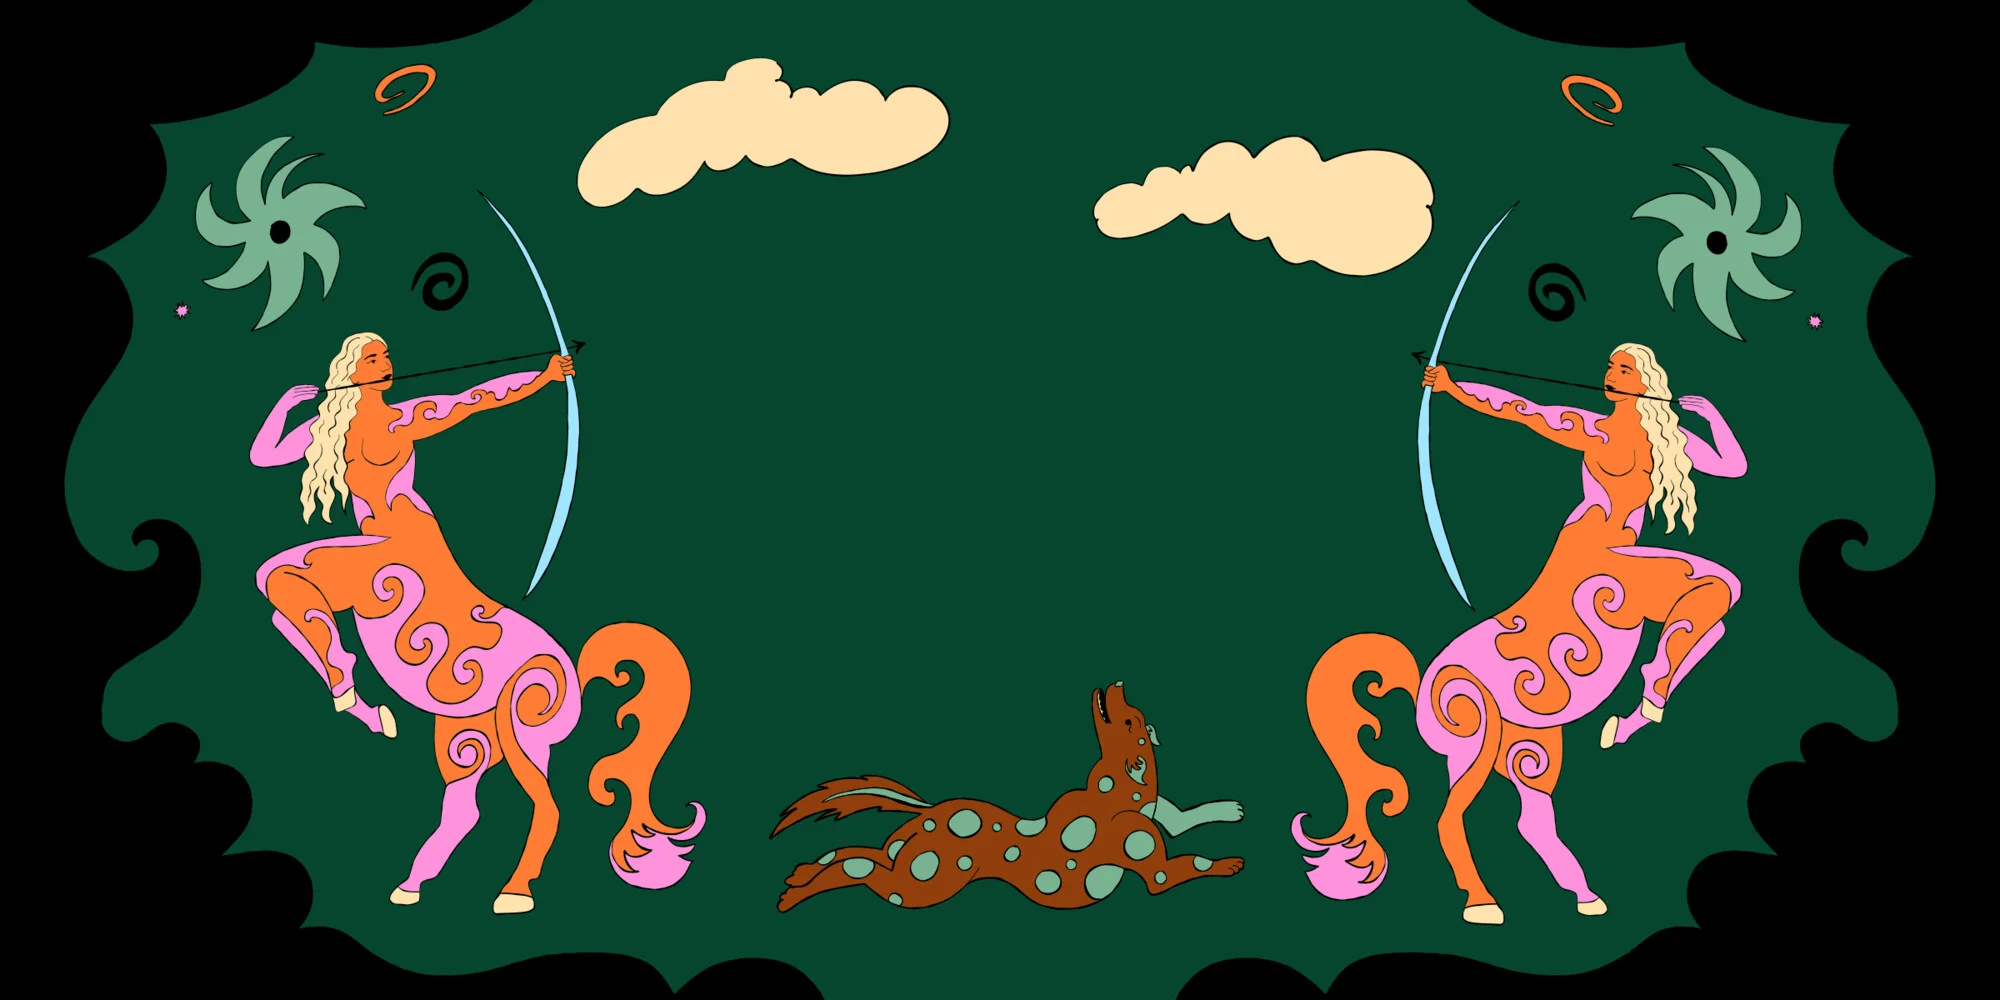
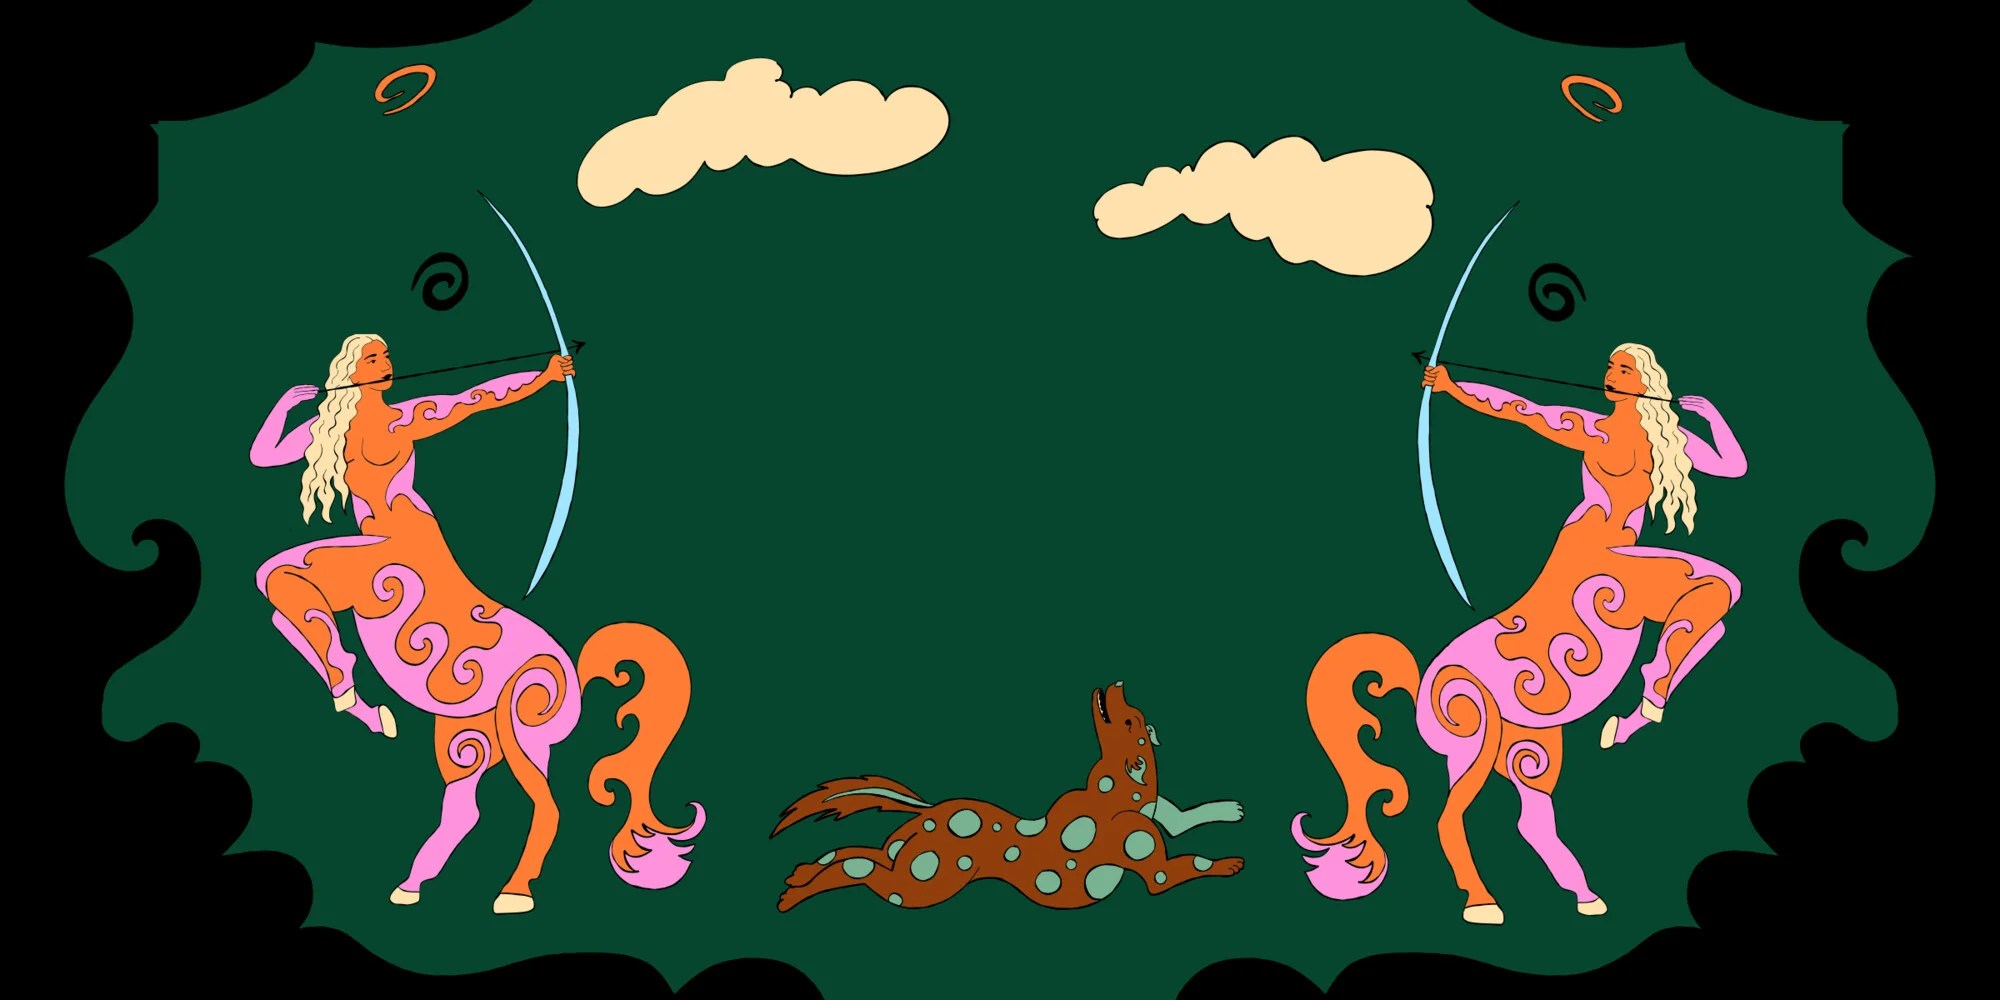
Animate remaining stars, update headline copy, double text sizes
- Isolate the two pinwheel stars and two pink sparkles from the hero
  illustration (previously static) and give them the same independent
  spin-star rotation as the other 6 stars, patching the base art to
  remove them cleanly
- Headline copy is now "¡Hola! / Soy Valentina Petalosi, / bienvenid@
  a mi mundo ilustrado" across three lines, sized up (and re-tuned per
  breakpoint) so it still clears the archers on both desktop and
  mobile
- Subtitle text sized up to match

Claude-Session: https://claude.ai/code/session_01JNDhm8kaHvN3q5tefeBrdc

Changed region(s): [[0.062, 0.124, 0.186, 0.341], [0.806, 0.155, 0.93, 0.341]]

diff --git a/src/App.tsx b/src/App.tsx
@@ -8,6 +8,10 @@ import starDiamondL from "./assets/portada/star-diamond-l.webp";
 import starDiamondR from "./assets/portada/star-diamond-r.webp";
 import starSparkL from "./assets/portada/star-spark-l.webp";
 import starSparkR from "./assets/portada/star-spark-r.webp";
+import starPinwheelL from "./assets/portada/star-pinwheel-l.webp";
+import starPinwheelR from "./assets/portada/star-pinwheel-r.webp";
+import starPinkL from "./assets/portada/star-pink-l.webp";
+import starPinkR from "./assets/portada/star-pink-r.webp";
 import isotipoCream from "./assets/isotipo-cream.webp";
 import aarimoLaptop from "./assets/projects/aarimo-cover.webp";
 import aarimo1 from "./assets/projects/aarimo-1.webp";
@@ -103,6 +107,10 @@ const STARS = [
   { src: starDiamondR, left: 89.271, top: 42.708, width: 2.29, duration: "6.5s" },
   { src: starSparkL, left: 20.417, top: 15.833, width: 3.75, duration: "7.5s" },
   { src: starSparkR, left: 78.542, top: 18.75, width: 3.3333, duration: "8s", reverse: true },
+  { src: starPinwheelL, left: 13.958, top: 20.625, width: 11.667, duration: "14s" },
+  { src: starPinwheelR, left: 86.042, top: 20.625, width: 11.667, duration: "15s", reverse: true },
+  { src: starPinkL, left: 9.167, top: 31.667, width: 2.917, duration: "5.5s", reverse: true },
+  { src: starPinkR, left: 90.833, top: 31.667, width: 2.917, duration: "6s" },
 ];
 
 function App() {
@@ -188,14 +196,17 @@ function App() {
 
             <div className="absolute inset-0 flex flex-col items-center justify-center px-6 text-center">
               <h1 className="font-display leading-tight text-cream">
-                <span className="block text-lg sm:text-2xl md:text-3xl lg:text-4xl">
-                  Bienvenid@
+                <span className="block text-base sm:text-4xl md:text-5xl lg:text-6xl">
+                  ¡Hola!
                 </span>
-                <span className="block text-lg sm:text-2xl md:text-3xl lg:text-4xl">
-                  a mi mundo ilustrado
+                <span className="block text-[0.6rem] sm:text-2xl md:text-3xl lg:text-4xl">
+                  Soy Valentina Petalosi,
+                </span>
+                <span className="block text-[0.6rem] sm:text-2xl md:text-3xl lg:text-4xl">
+                  bienvenid@ a mi mundo ilustrado
                 </span>
               </h1>
-              <p className="mt-2 max-w-[24ch] font-sans text-[0.55rem] leading-snug text-cream sm:mt-4 sm:max-w-sm sm:text-sm md:text-base">
+              <p className="mt-1 max-w-[22ch] font-sans text-[0.45rem] leading-snug text-cream sm:mt-4 sm:max-w-sm sm:text-2xl md:text-[1.75rem]">
                 Creo ilustraciones y universos creativos inspirados en la
                 naturaleza y la fuerza femenina
               </p>
